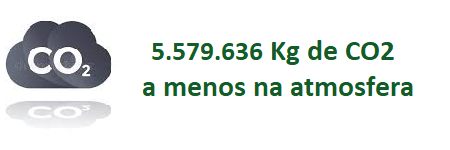
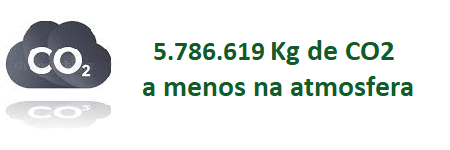
Atualização Out/22

Changed region(s): [[0.3111, 0.2667, 0.5911, 0.4]]

diff --git a/frontend/src/components/DataTable/index.tsx b/frontend/src/components/DataTable/index.tsx
@@ -9,7 +9,7 @@ const DataTable = () => {
                         <th>OT's</th>
                         <th>OS's</th>
                         <th>OD's</th>
-                        <th>Estoque em 30/09/22 (Kg)</th>
+                        <th>Estoque em 31/10/22 (Kg)</th>
                         <th>Peso Reciclado (Kg)</th>
                         
                     </tr>
@@ -23,11 +23,11 @@ const DataTable = () => {
                     </tr>
                     <tr>
                         <td>Codel</td>
-                        <td>145</td>
-                        <td>279</td>
-                        <td>584</td>
-                        <td>17.592,137</td>
-                        <td>66.203,473</td>
+                        <td>160</td>
+                        <td>292</td>
+                        <td>626</td>
+                        <td>26.777,729</td>
+                        <td>71.054,661</td>
                     </tr>
                     <tr>
                         <td>Ecobras</td>
@@ -63,19 +63,19 @@ const DataTable = () => {
                     </tr>
                     <tr>
                         <td>Natal</td>
-                        <td>444</td>
-                        <td>2.573</td>
-                        <td>409</td>
-                        <td>96.775,163</td>
-                        <td>1.223.514,280</td>
+                        <td>477</td>
+                        <td>2.682</td>
+                        <td>428</td>
+                        <td>98.339,328</td>
+                        <td>1.275.585,302</td>
                     </tr>
                     <tr>
                         <td>Reciclo</td>
-                        <td>850</td>
-                        <td>1.785</td>
-                        <td>1.301</td>
-                        <td>81.566,652</td>
-                        <td>1.743.463,517</td>
+                        <td>920</td>
+                        <td>1.881</td>
+                        <td>1.361</td>
+                        <td>107.020,431</td>
+                        <td>1.828.138,713</td>
                     </tr>
                     <tr>
                         <td>Reeecicle</td>
@@ -87,10 +87,10 @@ const DataTable = () => {
                     </tr>
                     <tr>
                         <td>Sete Ambiental</td>
-                        <td>964</td>
-                        <td>728</td>
+                        <td>993</td>
+                        <td>746</td>
                         <td>17</td>
-                        <td>48.847,222</td>
+                        <td>50.761,382</td>
                         <td>609,600</td>
                     </tr>
                     <tr>
@@ -104,10 +104,10 @@ const DataTable = () => {
                     <tr>
                         <td>Zero Impacto</td>
                         <td>85</td>
-                        <td>565</td>
-                        <td>74</td>
-                        <td>77.091,958</td>
-                        <td>53.244,294</td>
+                        <td>622</td>
+                        <td>79</td>
+                        <td>62.921,491</td>
+                        <td>72.004,772</td>
                     </tr>
                     <tr>
                         <td> </td>
@@ -119,11 +119,11 @@ const DataTable = () => {
                     </tr>
                     <tr>
                         <th>T O T A I S</th>
-                        <th>2.612</th>
-                        <th>6.393</th>
-                        <th>2.581</th>
-                        <th>572.869,458</th>
-                        <th>3.168.483,765</th>
+                        <th>2.759</th>
+                        <th>6.686</th>
+                        <th>2.707</th>
+                        <th>596.816,687</th>
+                        <th>3.328.841,649</th>
                     </tr>
                 </thead>
                 <tbody>

diff --git a/frontend/src/components/BarRecbMensal/index.tsx b/frontend/src/components/BarRecbMensal/index.tsx
@@ -16,12 +16,12 @@ const BarRecbMensal = () => {
     
     const mockData = {
         labels: {
-            categories: ['Jan', 'Fev', 'Mar', 'Abr', 'Mai', 'Jun', 'Jul', 'Ago', 'Set', 'Out', 'Nov', 'Dez', 'Jan/22', 'Fev', 'Mar', 'Abr', 'Mai', 'Jun', "Jul", "Ago", "Set"]
+            categories: ['Jan', 'Fev', 'Mar', 'Abr', 'Mai', 'Jun', 'Jul', 'Ago', 'Set', 'Out', 'Nov', 'Dez', 'Jan/22', 'Fev', 'Mar', 'Abr', 'Mai', 'Jun', "Jul", "Ago", "Set", "Out"]
         },
         series: [
             {
                 name: "Kg Recebidos",
-                data: [108468, 113628,	123526, 138370, 186067, 187866, 219556, 162479, 257534, 204908, 255846, 235632, 170503, 177506, 183005, 129727, 151077, 156492, 180337, 189042, 220864]                  
+                data: [108468, 113628,	123526, 138370, 186067, 187866, 219556, 162479, 257534, 204908, 255846, 235632, 170503, 177506, 183005, 129727, 151077, 156492, 180337, 189042, 220864, 139238]                  
             }
         ]
     };

diff --git a/frontend/src/components/BarReciclMensal/index.tsx b/frontend/src/components/BarReciclMensal/index.tsx
@@ -16,12 +16,12 @@ const BarReciclMensal = () => {
     
     const mockData = {
         labels: {
-            categories: ['Jan', 'Fev', 'Mar', 'Abr', 'Mai', 'Jun', 'Jul', 'Ago', 'Set', 'Out', 'Nov', 'Dez', 'Jan/22', 'Fev', 'Mar', 'Abr', 'Mai', 'Jun', 'Jul', "Ago", "Set"]
+            categories: ['Jan', 'Fev', 'Mar', 'Abr', 'Mai', 'Jun', 'Jul', 'Ago', 'Set', 'Out', 'Nov', 'Dez', 'Jan/22', 'Fev', 'Mar', 'Abr', 'Mai', 'Jun', 'Jul', "Ago", "Set", "Out"]
         },
         series: [
             {
                 name: "Kg Reciclados",
-                data: [26339, 90712, 93643, 142116, 166545, 219788, 189244, 197028, 209382, 176002, 176982, 162728, 128780, 136990, 181336, 84713, 112874, 154528, 138325, 172608, 207822]                  
+                data: [26339, 90712, 93643, 142116, 166545, 219788, 189244, 197028, 209382, 176002, 176982, 162728, 128780, 136990, 181336, 84713, 112874, 154528, 138325, 172608, 207822, 160358]                  
             }
         ]
     };

diff --git a/frontend/src/components/BarChart/index.tsx b/frontend/src/components/BarChart/index.tsx
@@ -17,7 +17,7 @@ const BarChart = () => {
         series: [
             {
                 name: "Ton Reciclados",
-                data: [0, 66.203, 46.304, 0, 9.459, 25.501, 1223.514, 1743.464, 0.184, 0.610, 0, 53.244]                  
+                data: [0, 71.055, 46.304, 0, 9.459, 25.501, 1275.585, 1828.139, 0.184, 0.610, 0, 72.005]                  
             }
         ]
     };

diff --git a/frontend/src/components/BarOSs/index.tsx b/frontend/src/components/BarOSs/index.tsx
@@ -22,7 +22,7 @@ const BarOSs = () => {
         series: [
             {
                 name: "OS's Abertas",
-                data: [11, 279, 17, 6, 64, 158, 2573, 1785, 206, 728, 12, 565]                  
+                data: [11, 292, 17, 6, 64, 158, 2682, 1881, 206, 746, 12, 622]                  
             }
         ]
     };

diff --git a/frontend/src/components/BarODs/index.tsx b/frontend/src/components/BarODs/index.tsx
@@ -22,7 +22,7 @@ const BarODs = () => {
         series: [
             {
                 name: "OD's Abertas",
-                data: [0, 584, 23, 0, 49, 52, 409, 1301, 1, 17, 71, 74]                  
+                data: [0, 626, 23, 0, 49, 52, 428, 1361, 1, 17, 71, 79]                  
             }
         ]
     };

diff --git a/frontend/src/components/BarOTs/index.tsx b/frontend/src/components/BarOTs/index.tsx
@@ -22,7 +22,7 @@ const BarOTs = () => {
         series: [
             {
                 name: "OT's Abertas",
-                data: [1, 145, 0, 37, 24, 14, 444, 850, 49, 964, 0, 85]                  
+                data: [1, 160, 0, 37, 24, 14, 477, 920, 49, 993, 0, 85]                  
             }
         ]
     };
